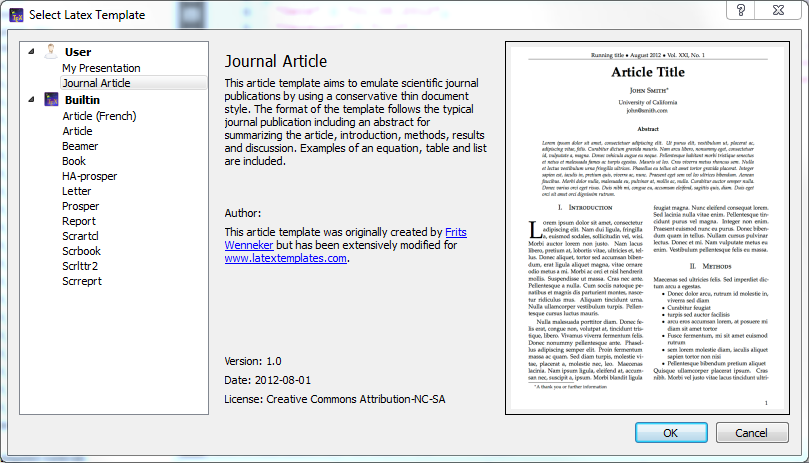
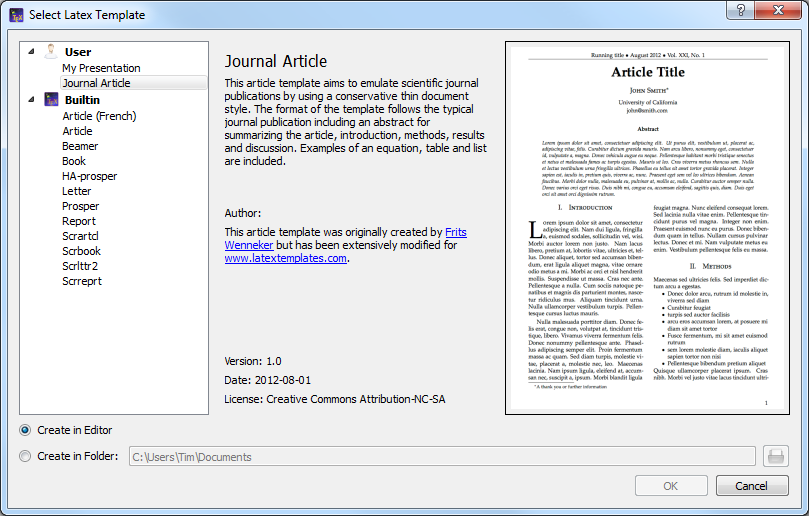
update documentation for the recent extensions of the template system
git-svn-id: http://svn.code.sf.net/p/texstudio/code@3634 92cce386-e96d-4106-809f-596c673a3fd8

Changed region(s): [[0.0, 0.0, 1.0, 1.0], [0.2781, 0.0907, 0.618, 0.3629], [0.2781, 0.3931, 0.5871, 0.5745]]

diff --git a/trunk/utilities/usermanual_en.html b/trunk/utilities/usermanual_en.html
@@ -486,21 +486,26 @@ This is a more interactive approach than choosing svn revisions directly via a m
 <p>For new documents, templates can be used by using the command "File/New from template".
 A dialogue gives a selection of templates.</p>
 <p><IMG src="template.png" border="1" alt="Templates"></p>
-<p>New templates can be added by using the command "File/Make Template" on a opened document which you like to have has a template. User templates are saved in the <code>/templates/user/</code> subdirectory of the config directory.</p>
-<p>Meta data is stored in JSON format in a separate file with same name, but extension ".json" instead of ".tex". Currently the following entries are supported:</p>
-<pre>
-{
-"Name"        : "Beamer",
-"Description" : "Beamer class for presentations.", 
-"Author"      : "TXS built-in",
-"Date"        : "17.8.2009",
-"Version"     : "1.0",
-"License"     : "Public Domain"
-}
-</pre>
-<p>You can add a preview image next to the ".tex" file. Again, it must have the same name, but extension ".png" instead of ".tex".</p>
+<p>You can either create a new editor document from the template or create it as file(s) on disk and open these in the editor. The former option is not available for multi-file templates.</p>
+<p>New templates can be created by using the command "File/Make Template" on a opened document which you like to have has a template. Note that this dialog currently does not support the full capabilities of the template system. In particular you cannot supply a preview image or create a multi-file template with it. You'll have to do this manually (see the <a href="#SECTION12aa">template format</a>).</p>
 <p>User added templates can be edited or deleted by using the context menu in the template selection dialogue.
 Built-in templates can not be changed.</p>
+<p>User templates are saved in the <code>/templates/user/</code> subdirectory of the config directory.</p>
+<h3 id="SECTION12aa">2.2.2.1 The Template Format</h3>
+<p>In its simplest form, a template is only a .tex file. Multi-file templates can be created by packaging all files in a zip achive. Optionally, meta data is stored in JSON format in a separate file with the same name, but extension ".json" instead of ".tex" or ".zip". Currently the following entries are supported:</p>
+<pre>
+{
+"Name"        : "Book",
+"Author"      : "TXS built-in",
+"Date"        : "04.01.2013",
+"Version"     : "1.1",
+"Description" : "Default LaTeX class for books using separate files for each chapter.",
+"License"     : "Public Domain",
+"FilesToOpen" : "./TeX_files/chapter01.tex;main.tex"
+}
+</pre>
+<p>FilesToOpen only has an effect for mutli-file documents. You may add a preview image next to the template file. Again, it must have the same name, but extension ".png".</p>
+
 <h2 id="SECTION13">2.3 Structure of a document</h2>
 <p>To define a new part (section,subsection...) in your document with TeXstudio, just use this combo box in the tool bar :</p>
 <p><IMG src="doc3.png" border="1" alt="Sectioning"></p>
